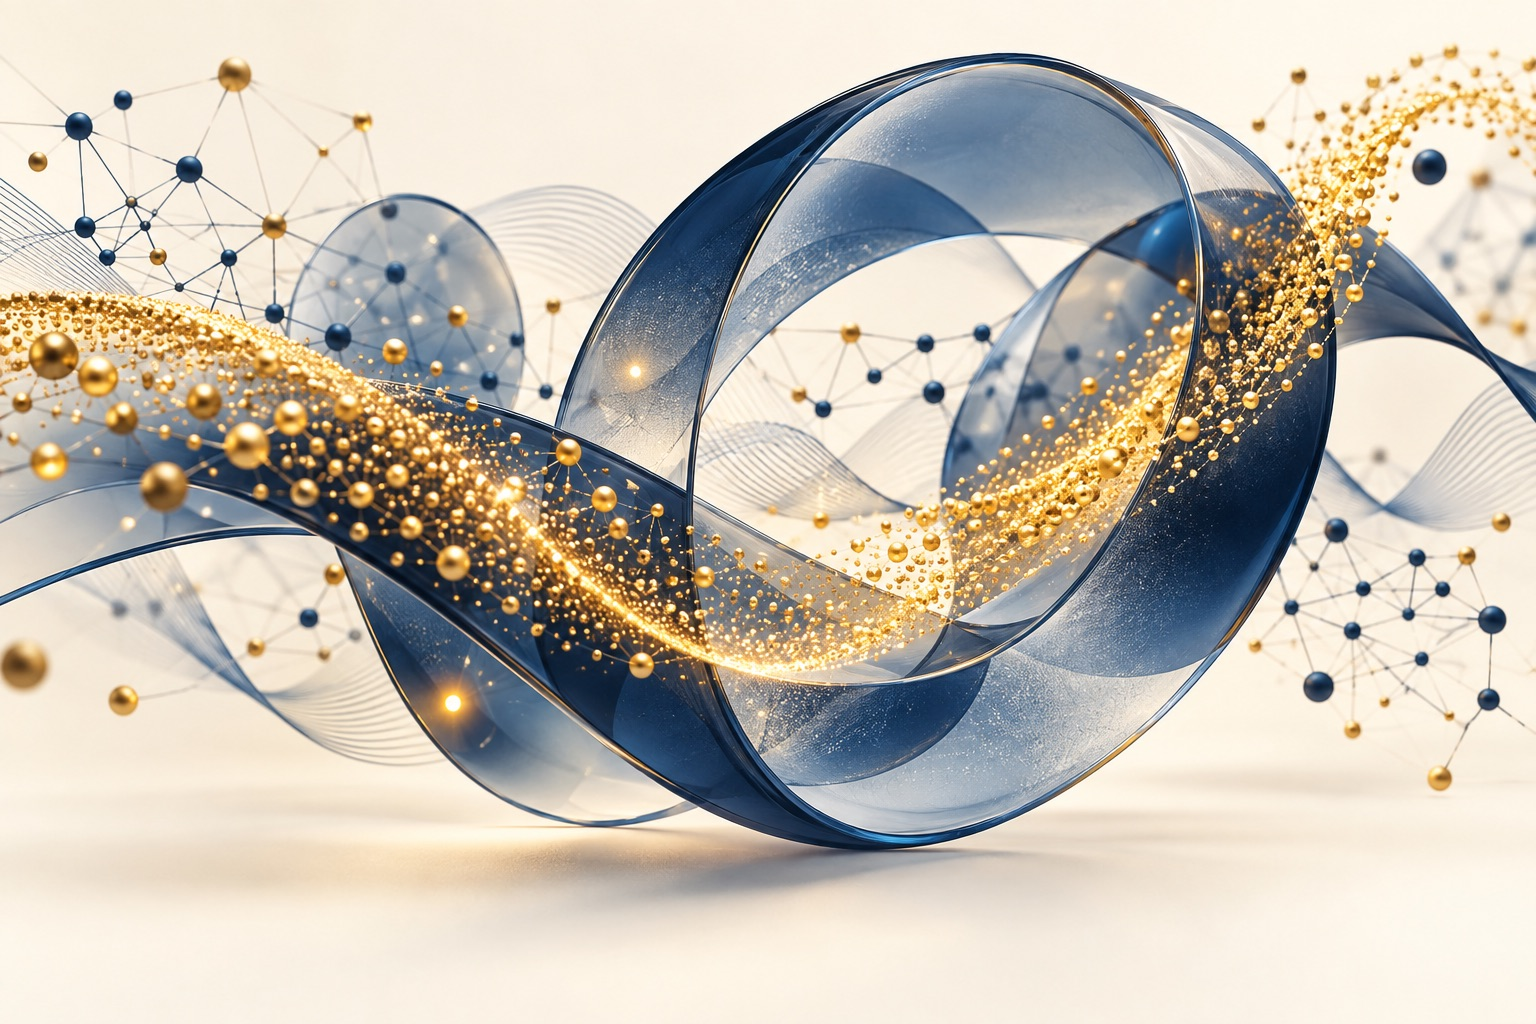
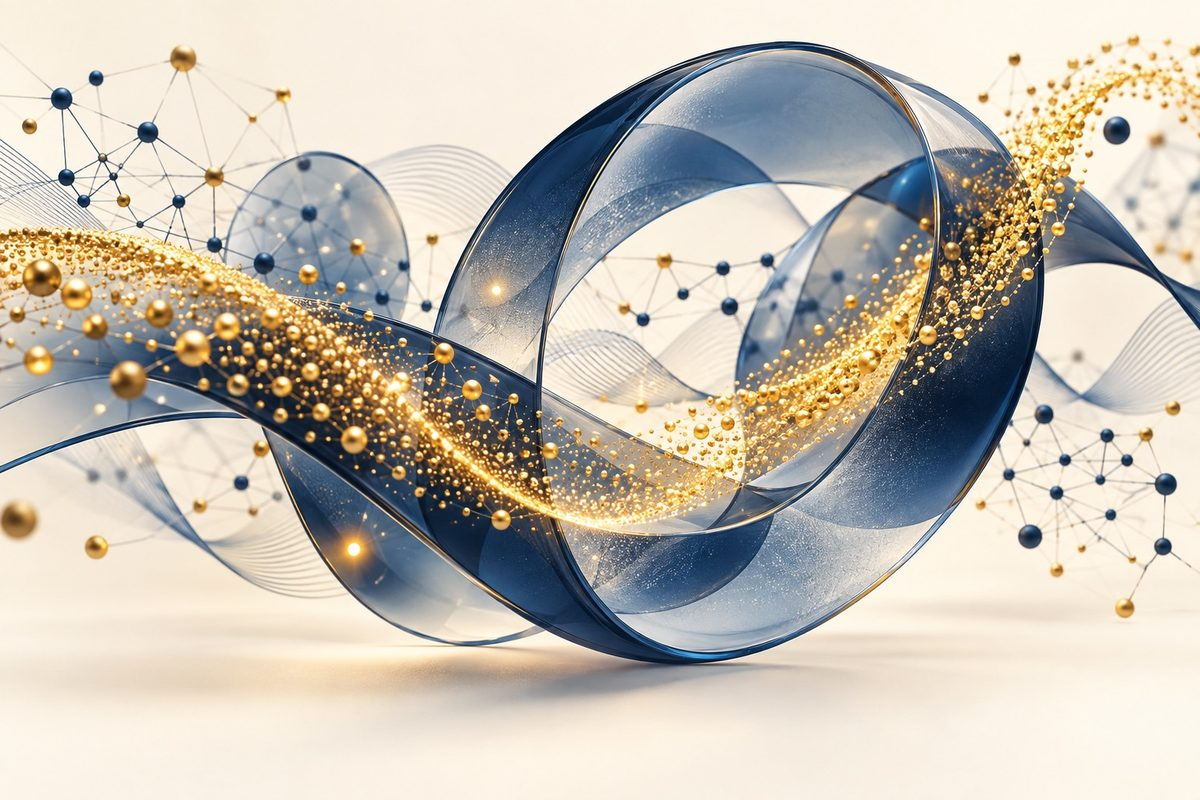
Split the research sheet into per-topic images and compress the hero
symposium-research.jpg was a 2x2 contact sheet of four motifs rendered as a
single panel with object-fit: cover, so the crop cut through the motifs. It is
now sliced into four 16:10 tiles, one per topic card, cropped clear of the
neighbouring cells and matched to a common ratio so none need padding.

The hero image had a height attribute that beat its aspect-ratio; the topic
images carry width/height matching the file. Hero is resampled to 1200px wide
(420 KB down to 162 KB) and each tile is about 33 KB, replacing a 289 KB sheet.

Drops the unused symposium-banner.svg.

diff --git a/symposium.html b/symposium.html
@@ -97,16 +97,15 @@
       summary:hover { background: #fff8e4; }
     }
 
-    /* Illustrated research themes; native disclosure works on touch and keyboard. */
-    .research-panel { display: grid; grid-template-columns: 1.2fr 1fr; border: 1px solid var(--border); border-radius: 18px; overflow: hidden; background: #fff; box-shadow: var(--shadow); }
-    .research-art { width: 100%; height: 100%; object-fit: cover; }
-    .research-topics { padding: 20px; align-self: center; }
-    .research-topics details { border-bottom: 1px solid var(--border); }
-    .research-topics details:last-child { border-bottom: 0; }
+    /* Illustrated research themes, one motif per topic. */
+    .topic-grid { display: grid; grid-template-columns: repeat(auto-fit, minmax(220px, 1fr)); gap: 22px; }
+    .topic { border: 1px solid var(--border); border-radius: 16px; overflow: hidden; background: #fff; box-shadow: var(--shadow); }
+    .topic img { width: 100%; height: auto; aspect-ratio: 16 / 10; object-fit: cover; }
+    .topic-body { padding: 18px 20px 22px; }
+    .topic-body span { display: block; font-size: 12px; font-weight: 700; letter-spacing: 2px; color: #8c6800; margin-bottom: 4px; }
+    .topic-body h3 { font-size: 18px; color: var(--accent); margin-bottom: 6px; }
+    .topic-body p { font-size: 15px; color: var(--text-muted); }
     summary { cursor: pointer; border-radius: 8px; }
-    .research-topics summary { padding: 18px 12px; font-size: 18px; font-weight: 700; color: var(--accent); }
-    .research-topics summary span { color: #8c6800; font-size: 12px; margin-right: 12px; }
-    .research-topics details p { padding: 0 12px 18px; color: var(--text-muted); font-size: 15px; }
     details[open] > summary { background: #fff8e4; }
 
     /* Calendar day view */
@@ -182,7 +181,7 @@
           <p>A day for students, faculty, and industry to share AI for Health research, meet collaborators, and see what is happening across UC Davis and UC Davis Health.</p>
         </div>
         <img class="hero-art" src="img/symposium-abstract.jpg"
-             width="1536" height="1024" fetchpriority="high"
+             width="1200" height="800" fetchpriority="high"
              alt="Abstract navy glass ribbons intertwined with golden data points and connected networks" />
       </div>
 
@@ -256,14 +255,23 @@
     <div class="container">
       <h2 class="section-title">Present your work</h2>
       <p class="section-sub">Indicate on the registration form whether you want a talk slot or a poster.</p>
-      <div class="research-panel">
-        <img class="research-art" src="img/symposium-research.jpg" width="1536" height="1024" loading="lazy" alt="Four abstract research motifs: a molecular lattice, computational layers, mathematical surfaces, and a health waveform" />
-        <div class="research-topics">
-          <details open><summary><span>01</span>Basic science</summary><p>Biology, medicine, and health science questions where AI plays a role.</p></details>
-          <details><summary><span>02</span>Computational methods</summary><p>Models, algorithms, benchmarks, data pipelines, and evaluation.</p></details>
-          <details><summary><span>03</span>Theory</summary><p>Theoretical approaches underpinning AI systems used in health.</p></details>
-          <details><summary><span>04</span>Applied and clinical</summary><p>Deployment, clinical workflows, validation, and outcomes.</p></details>
-        </div>
+      <div class="topic-grid">
+        <article class="topic">
+          <img src="img/topic-basic.jpg" width="640" height="400" loading="lazy" alt="Abstract illustration: a molecular lattice of linked spheres" />
+          <div class="topic-body"><span>01</span><h3>Basic science</h3><p>Biology, medicine, and health science questions where AI plays a role.</p></div>
+        </article>
+        <article class="topic">
+          <img src="img/topic-methods.jpg" width="640" height="400" loading="lazy" alt="Abstract illustration: stacked computational layers wired to surrounding nodes" />
+          <div class="topic-body"><span>02</span><h3>Computational methods</h3><p>Models, algorithms, benchmarks, data pipelines, and evaluation.</p></div>
+        </article>
+        <article class="topic">
+          <img src="img/topic-theory.jpg" width="640" height="400" loading="lazy" alt="Abstract illustration: an abstract mathematical saddle surface ringed by an orbit" />
+          <div class="topic-body"><span>03</span><h3>Theory</h3><p>Theoretical approaches underpinning AI systems used in health.</p></div>
+        </article>
+        <article class="topic">
+          <img src="img/topic-clinical.jpg" width="640" height="400" loading="lazy" alt="Abstract illustration: a health waveform passing through concentric glass discs" />
+          <div class="topic-body"><span>04</span><h3>Applied and clinical</h3><p>Deployment, clinical workflows, validation, and outcomes.</p></div>
+        </article>
       </div>
       <p style="margin-top:26px"><strong>Talks from students and junior faculty are especially welcome.</strong> Industry representatives are highly encouraged to register and attend.</p>
     </div>
